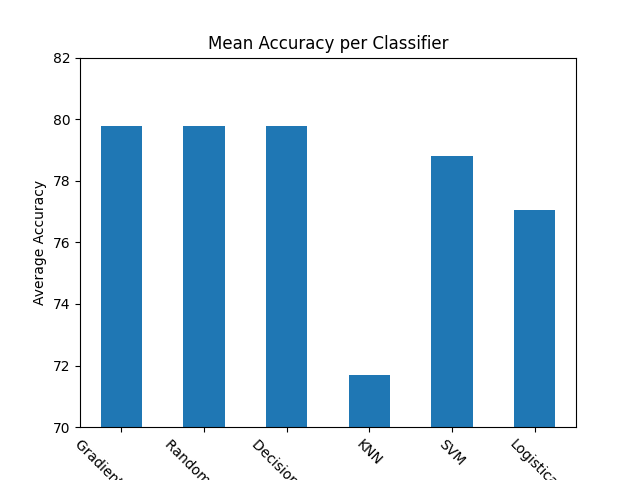
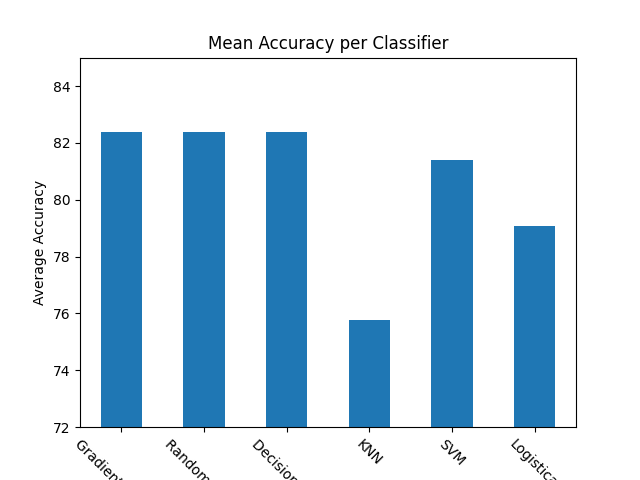
Finish homework 1 code

diff --git a/01/problem_classifier.py b/01/problem_classifier.py
@@ -3,8 +3,6 @@ import psb2
 
 from tqdm import tqdm
 
-from sklearn.metrics import accuracy_score
-
 from sklearn.linear_model import LogisticRegression
 from sklearn.svm import SVC
 from sklearn.neighbors import KNeighborsClassifier
@@ -31,6 +29,7 @@ def extract_features(example: Dict) -> Dict:
     features = {
         'input_count': sum('input' in k for k in example),
         'input_type': type(example['input1']),
+        'output_count': sum('output' in k for k in example),
         'output_type': type(example['output1']),
         'input_length': 1 if (type(example['input1']) == type(1.2) or type(example['input1']) == type(1)) else len(example['input1'])
     }
@@ -38,7 +37,9 @@ def extract_features(example: Dict) -> Dict:
 
 
 def one_hot_encode(features: Dict) -> List:
-    feature_list = [features['input_count'], features['input_length']]
+    feature_list = [features['input_count'],
+                    features['input_length'],
+                    features['output_count']]
     # int string list float bool
     for feature in ['input_type', 'output_type']:
         types = [1, 'a', [1, 2], 1.2, False]
@@ -58,7 +59,7 @@ def get_models(X: List, y: List) -> Dict:
     models['dt'] = DecisionTreeClassifier().fit(X, y)
     models['knn'] = KNeighborsClassifier().fit(X, y)
     models['svm'] = SVC().fit(X, y)
-    models['log'] = LogisticRegression(max_iter=500).fit(X, y)
+    models['log'] = LogisticRegression().fit(X, y)
     return models
 
 
